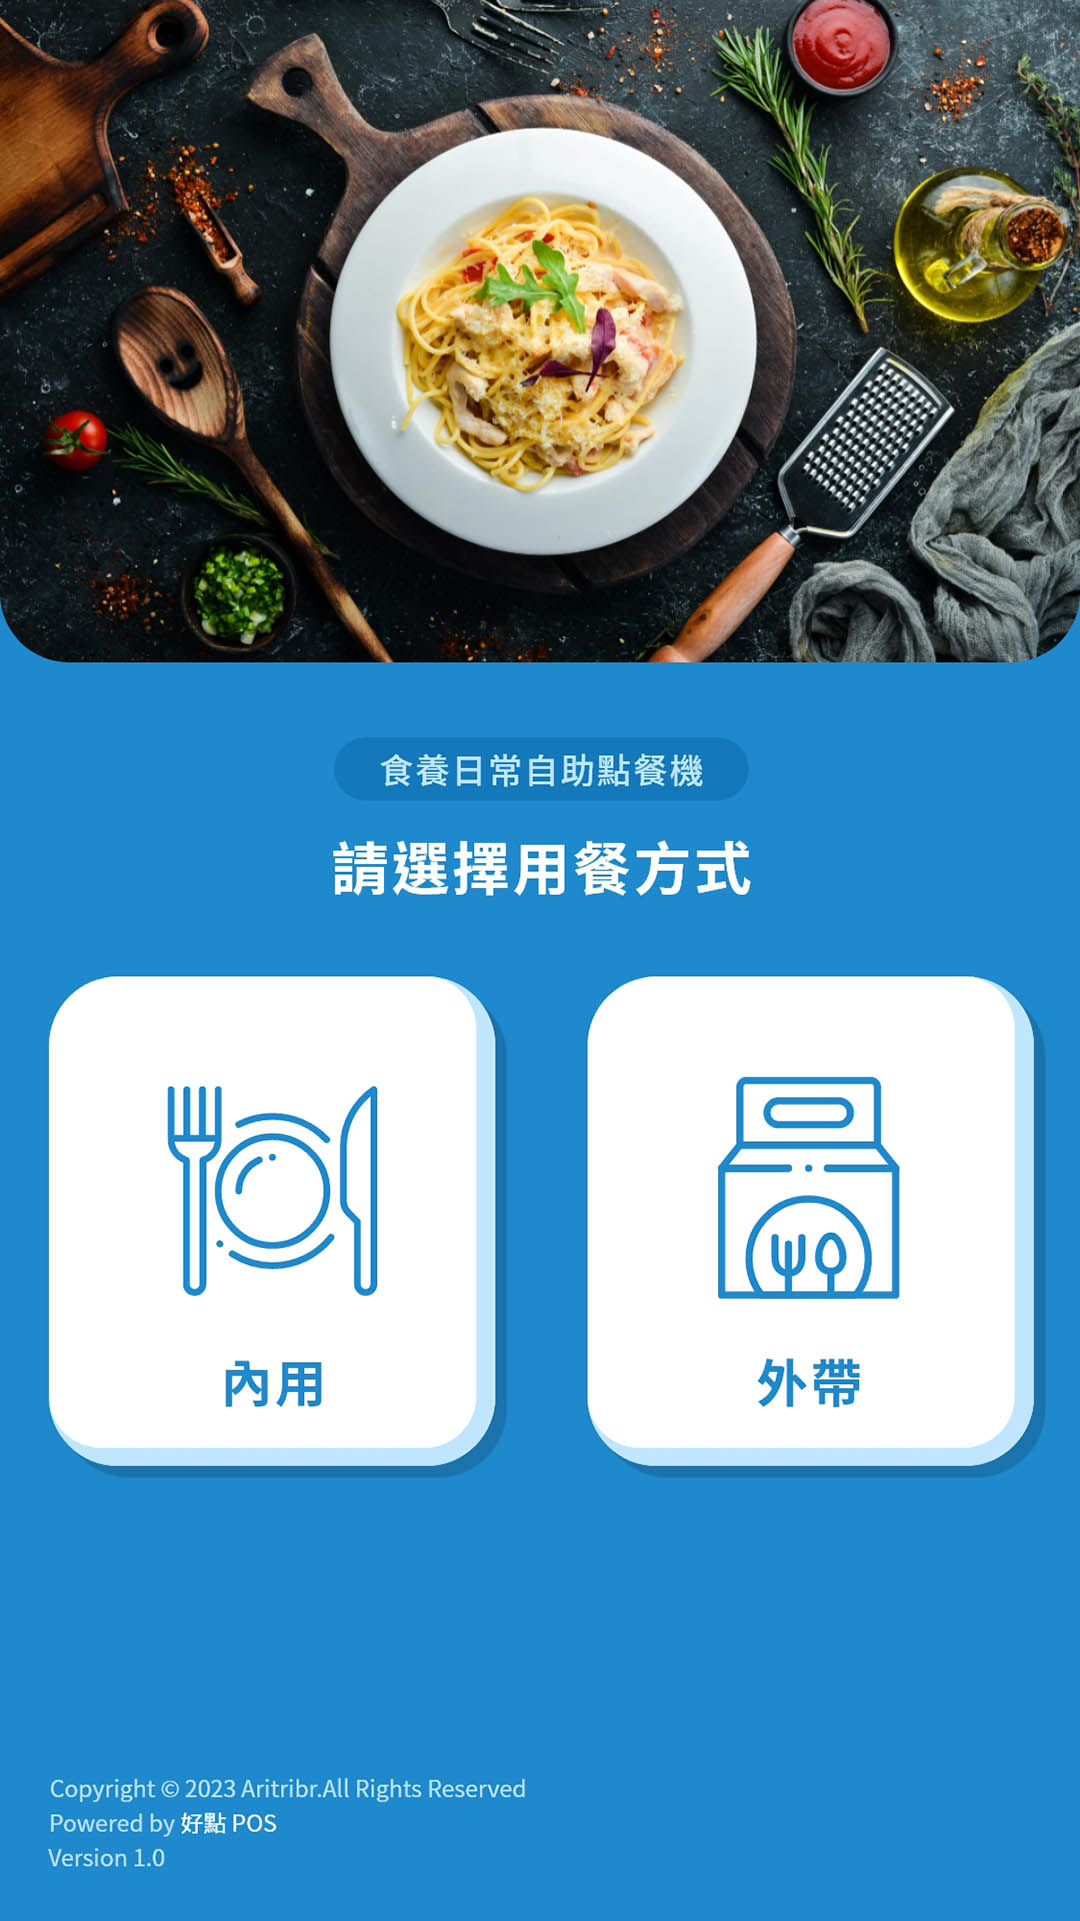
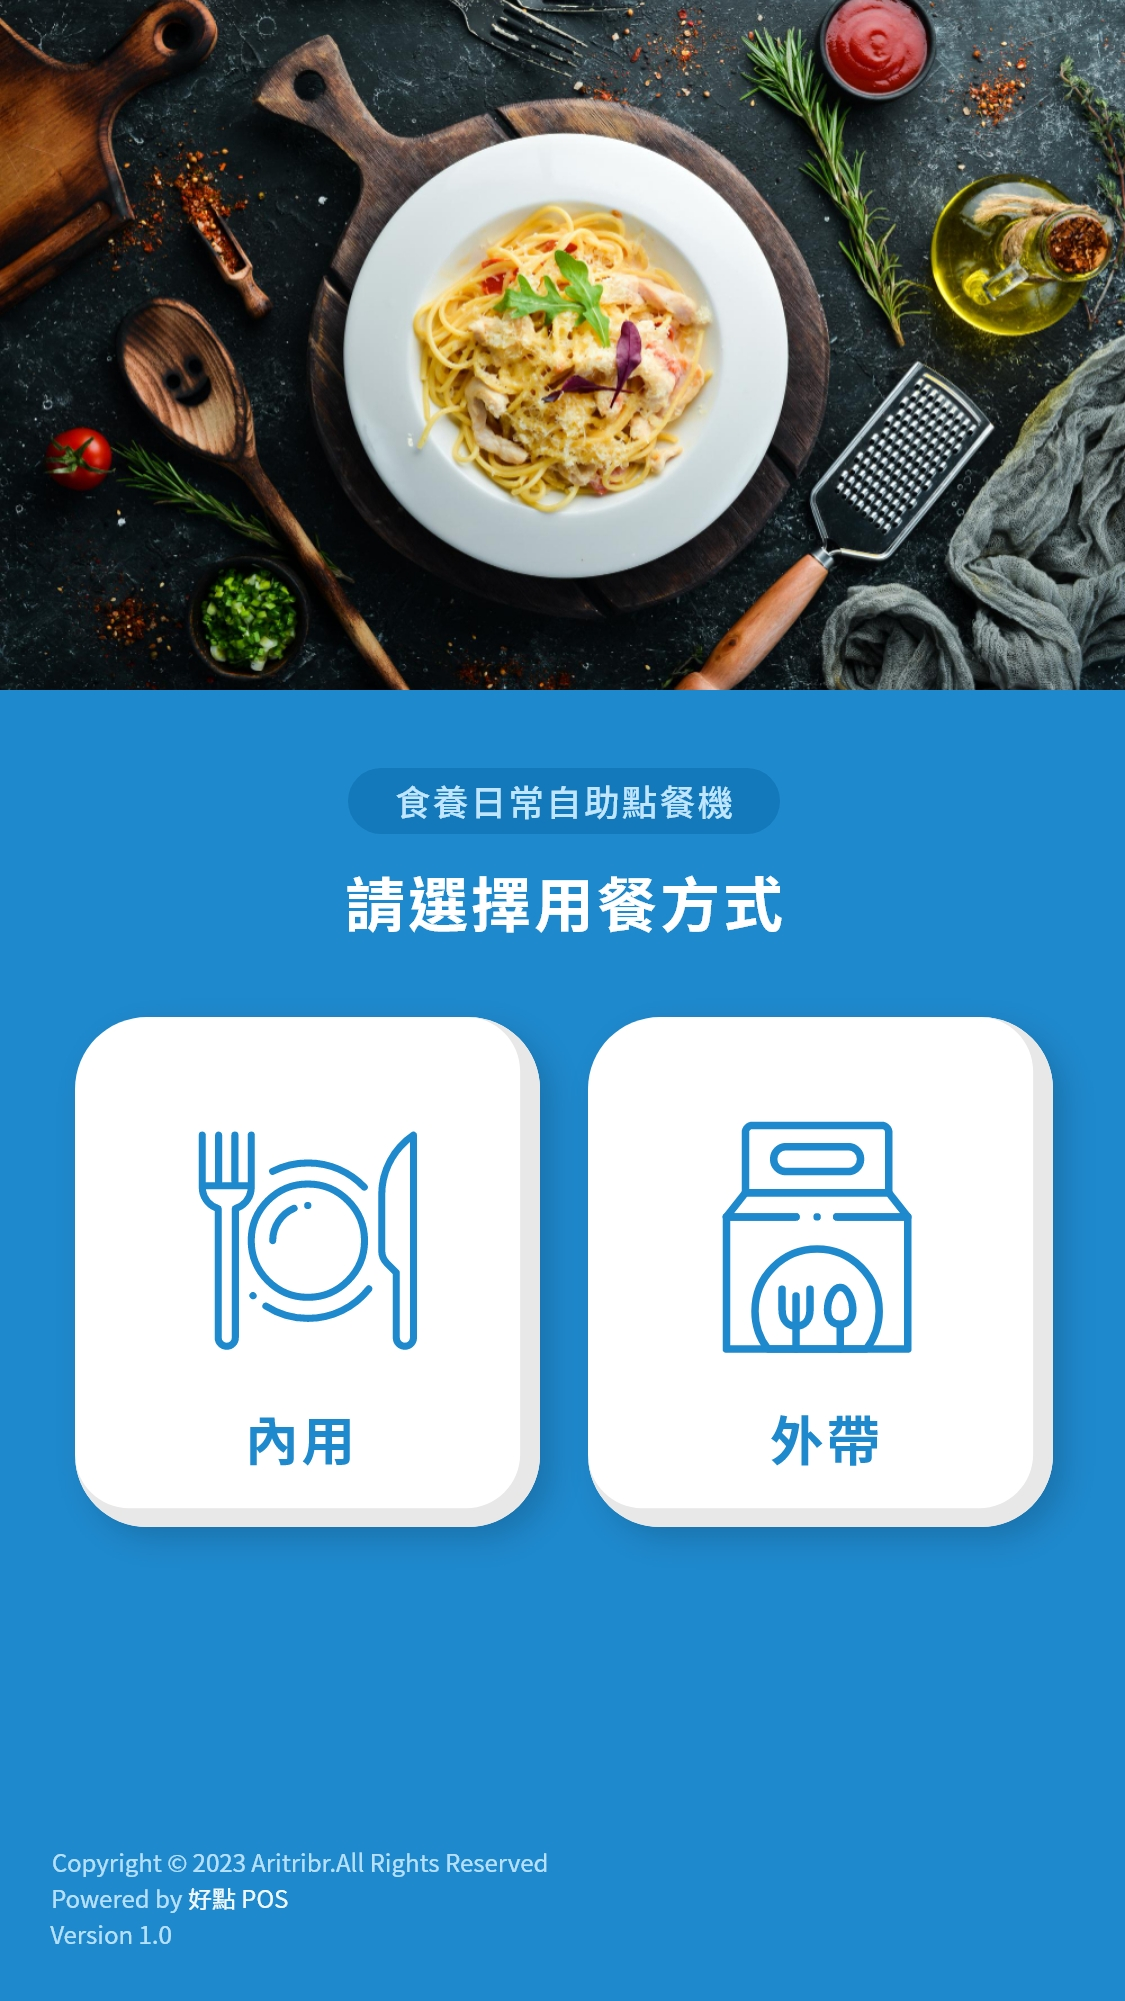
調整

diff --git a/index0103.htm b/index0103.htm
@@ -10,25 +10,35 @@ body {
 	margin-top: 0px;
 	margin-right: 0px;
 	margin-bottom: 0px;
-	background-color: #000000;
+	background-color: #4C4C4C;
 }
 table {
 	margin-left: 0px;
 	margin-top: 0px;
 	margin-right: 0px;
 	margin-bottom: 0px;
-	background-image: url(index0103.jpg);
-	background-repeat: no-repeat;
-	background-position: center top;
+	width: 1080px;
+	margin: 0 auto;
+}
+table img{
+	width: 100%;
+}
+.bottom{
+	width: 100%;
+position: fixed;
+display: flex;
+justify-content: center;
+bottom: 0;
 }
 -->
 </style>
 </head>
 
 <body>
+	<div class="bottom"><img src="./check.png" alt=""></div>
 <table width="100%" height="100%" border="0" align="center" cellpadding="0" cellspacing="0">
   <tr>
-    <td valign="top"><a href="index0104.htm"><img src="spacer.gif" width="100%" height="1920" border="0" /></a></td>
+    <td valign="top"><a href="index0104.htm"><img src="index0103.jpg" border="0" /></a></td>
   </tr>
 </table>
 </body>

diff --git a/index0101.htm b/index0101.htm
@@ -17,9 +17,11 @@ table {
 	margin-top: 0px;
 	margin-right: 0px;
 	margin-bottom: 0px;
-	background-image: url(index0101.jpg);
-	background-repeat: no-repeat;
-	background-position: center top;
+	width: 1080px;
+	margin: 0 auto;
+}
+table img{
+	width: 100%;
 }
 -->
 </style>
@@ -28,7 +30,7 @@ table {
 <body>
 <table width="100%" height="100%" border="0" align="center" cellpadding="0" cellspacing="0">
   <tr>
-    <td valign="top"><a href="index0102.htm"><img src="spacer.gif" width="100%" height="1920" border="0" /></a></td>
+    <td valign="top"><a href="index0102.htm"><img src="index0101.jpg" border="0" /></a></td>
   </tr>
 </table>
 </body>

diff --git a/index0105.htm b/index0105.htm
@@ -30,7 +30,7 @@ table img{
 <body>
 <table width="100%" height="100%" border="0" align="center" cellpadding="0" cellspacing="0">
   <tr>
-    <td valign="top"><a href="index0103.htm"><img src="index0102.jpg" border="0" /></a></td>
+    <td valign="top"><a href="index0106.htm"><img src="index0105.jpg" border="0" /></a></td>
   </tr>
 </table>
 </body>

diff --git a/index0106.htm b/index0106.htm
@@ -30,7 +30,7 @@ table img{
 <body>
 <table width="100%" height="100%" border="0" align="center" cellpadding="0" cellspacing="0">
   <tr>
-    <td valign="top"><a href="index0103.htm"><img src="index0102.jpg" border="0" /></a></td>
+    <td valign="top"><a href="index0107.htm"><img src="index0106.jpg" border="0" /></a></td>
   </tr>
 </table>
 </body>

diff --git a/index0107.htm b/index0107.htm
@@ -30,7 +30,7 @@ table img{
 <body>
 <table width="100%" height="100%" border="0" align="center" cellpadding="0" cellspacing="0">
   <tr>
-    <td valign="top"><a href="index0103.htm"><img src="index0102.jpg" border="0" /></a></td>
+    <td valign="top"><a href="index0101.htm"><img src="index0107.jpg" border="0" /></a></td>
   </tr>
 </table>
 </body>
